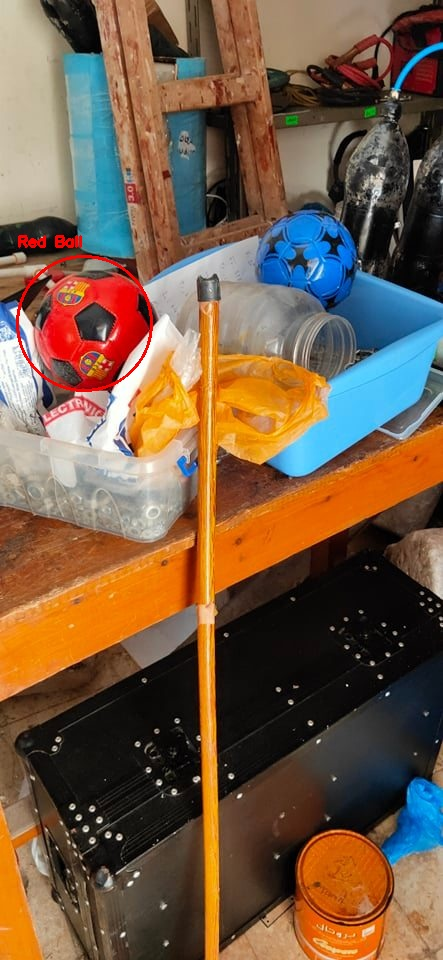
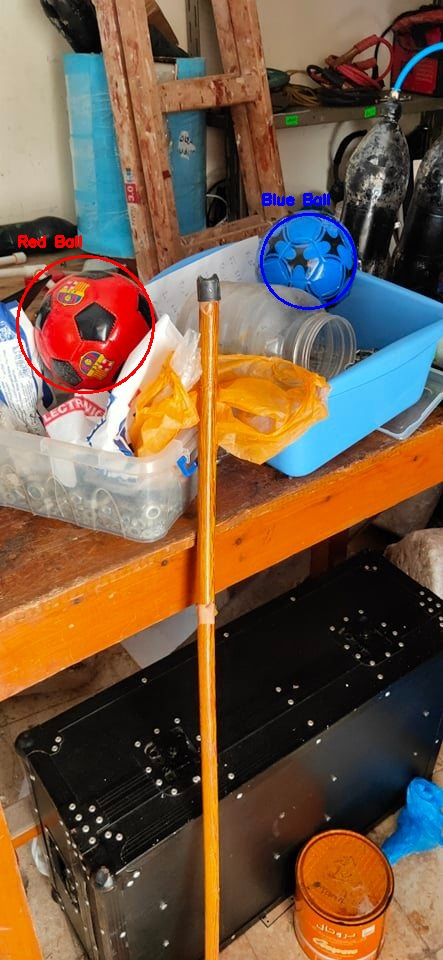
Increased blue accuracy

diff --git a/Task 8/8.1/test3.py b/Task 8/8.1/test3.py
@@ -14,8 +14,11 @@ upper_red1 = np.array([10, 255, 255], dtype=np.uint8)
 lower_red2 = np.array([160, 100, 100], dtype=np.uint8)
 upper_red2 = np.array([180, 255, 255], dtype=np.uint8)
 
-lower_blue = np.array([110, 50, 50], dtype=np.uint8)
-upper_blue = np.array([130, 255, 255], dtype=np.uint8)
+lower_blue1 = np.array([110, 50, 50], dtype=np.uint8)
+upper_blue1 = np.array([130, 255, 255], dtype=np.uint8)
+
+lower_blue2 = np.array([104, 216, 147], dtype=np.uint8)
+upper_blue2 = np.array([110, 255, 255], dtype=np.uint8)
 
 images = os.listdir(dataset_folder)
 
@@ -34,7 +37,9 @@ for image_name in images:
     mask2 = cv2.inRange(hsv_img, lower_red2, upper_red2)
     red_mask = cv2.bitwise_or(mask1, mask2)
     
-    blue_mask = cv2.inRange(hsv_img, lower_blue, upper_blue)
+    mask3 = cv2.inRange(hsv_img, lower_blue1, upper_blue1)
+    mask4 = cv2.inRange(hsv_img, lower_blue2, upper_blue2)
+    blue_mask = cv2.bitwise_or(mask3, mask4)
 
     # Find contours in the masks
     red_contours, _ = cv2.findContours(red_mask, cv2.RETR_EXTERNAL, cv2.CHAIN_APPROX_SIMPLE)
@@ -67,7 +72,7 @@ for image_name in images:
             circularity = cv2.contourArea(contour) / (np.pi * radius * radius)
             
             # Set a circularity threshold to filter out non-circular objects
-            circularity_threshold = 0.45
+            circularity_threshold = 0.47
             
             if circularity >= circularity_threshold:
                 cv2.circle(img, center, radius, (255, 0, 0), 2)
